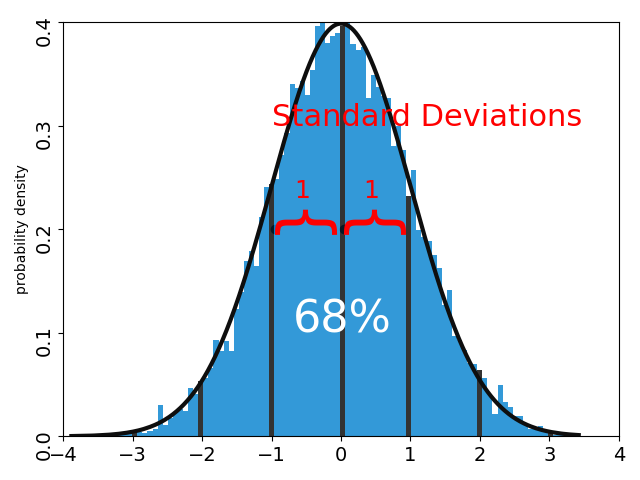
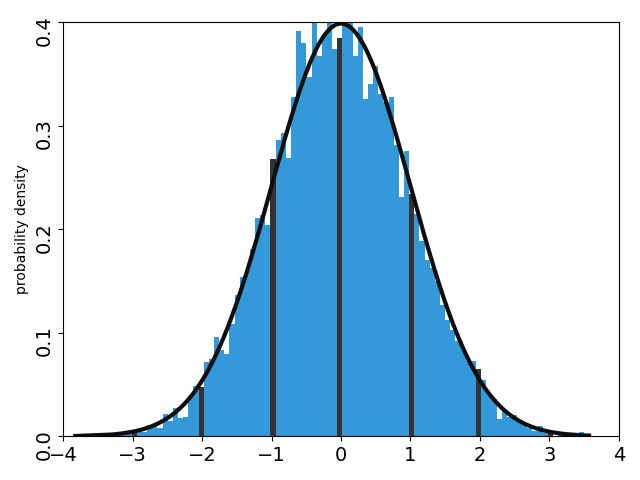
pdf

diff --git a/do_statistics/doStats.py b/do_statistics/doStats.py
@@ -5,6 +5,7 @@ from scipy.stats import ttest_ind_from_stats
 import re, math,warnings, numpy as np
 class DoStats(object):
     def getPdf(self,x, mu, sigma):
+        # y=((1 / (np.sqrt(2 * np.pi) * σ)) * np.exp(-0.5 * (1 / σ * (zScore - μ))**2))
         return stats.norm.pdf(x, mu, sigma)
     def getEvolutiveData(self,l):
         sortedX = sorted(l)
@@ -80,8 +81,7 @@ class DoStats(object):
             σ = self.getPSD(x)
         zScore,differ=self.standardizing(x,self.getMean(μ),σ)
         μ=0
-        y=((1 / (np.sqrt(2 * np.pi) * σ)) *
-                np.exp(-0.5 * (1 / σ * (zScore - μ))**2))
+        y=self.getPdf(x,μ,σ)
         return zScore,y
     def getTtest(self):
         return ttest_ind_from_stats(mean1=15.0, std1=np.sqrt(87.5),

diff --git a/test/fun/test_SD_VAR.py b/test/fun/test_SD_VAR.py
@@ -31,9 +31,12 @@ class TDD_TEST_SD_VAR(unittest.TestCase):
             self.p.drawTxt({'fontsize':18,'center':'center','color':'red','position':[.45,.28],'txt':1})
             self.p.drawTxt({'fontsize':22,'center':'center','color':'red','position':[0,.33],'txt':'Standard Deviations'})
             self.p.drawTxt({'fontsize':32,'center':'center','color':'white','position':[0,.1],'txt':'68%'})
+            # Hide the right and top spines
+            ax.spines['right'].set_visible(False)
+            ax.spines['top'].set_visible(False)
             
         # self.p.plotStdND(
-        #     func=func,
+        #     # func=func,
         #     barCol='#0080CF',
         #     cutLineCol='black',
         # ).saveAndShow()
